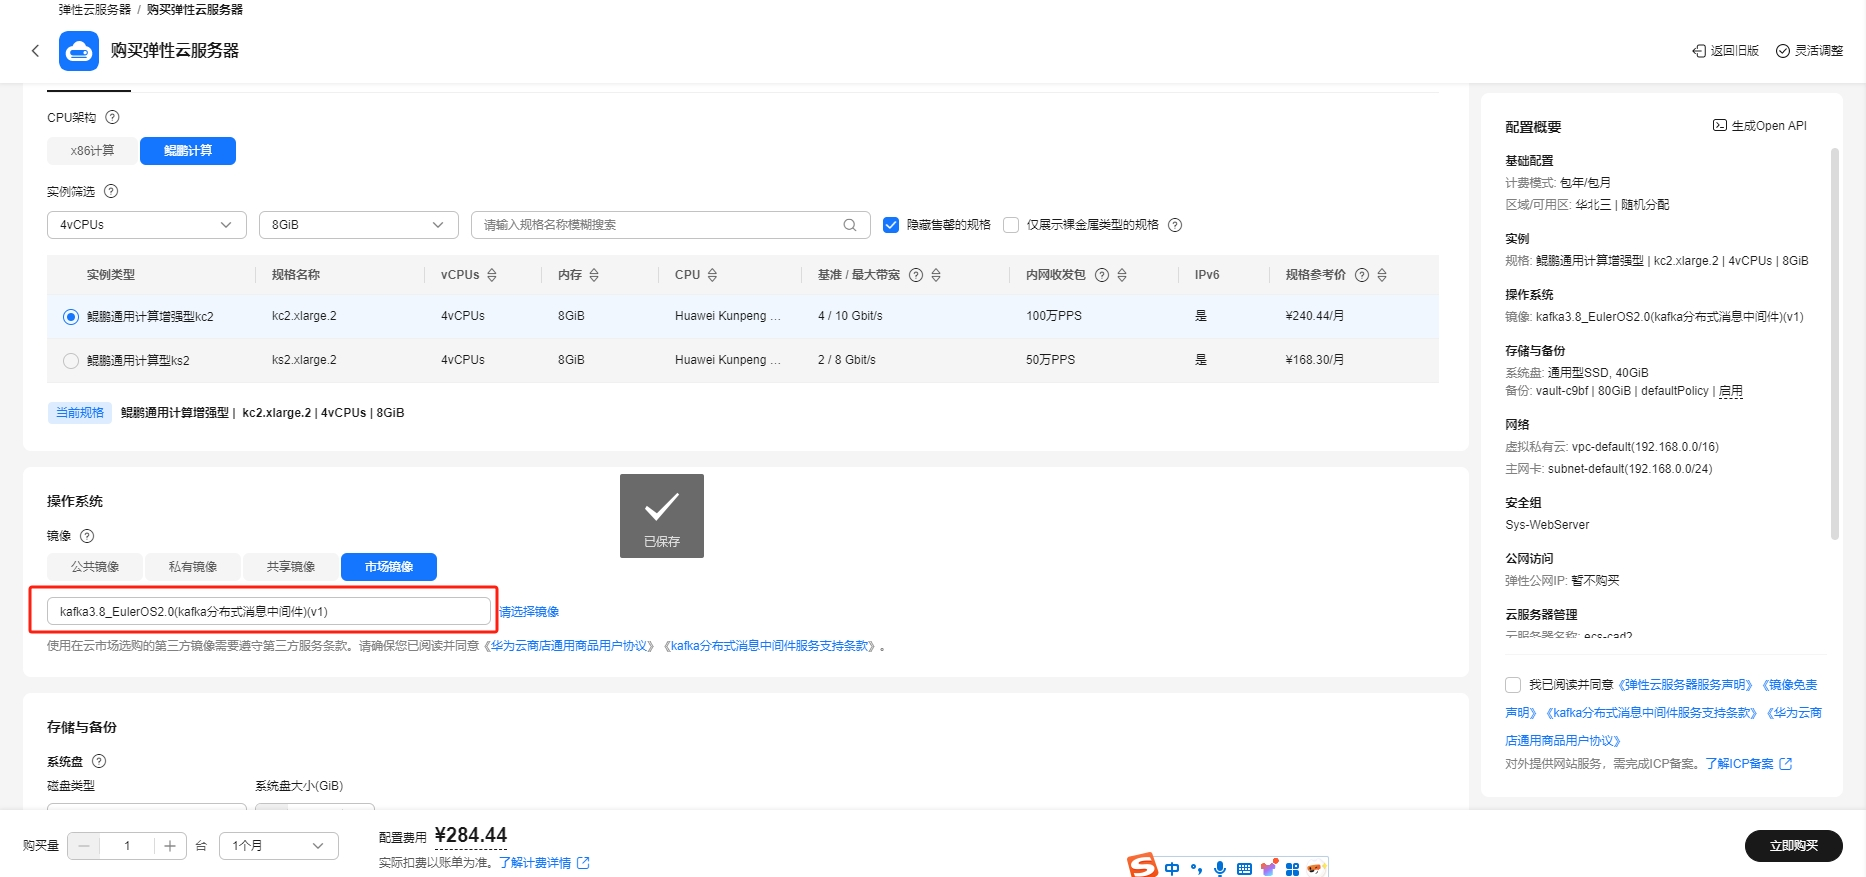
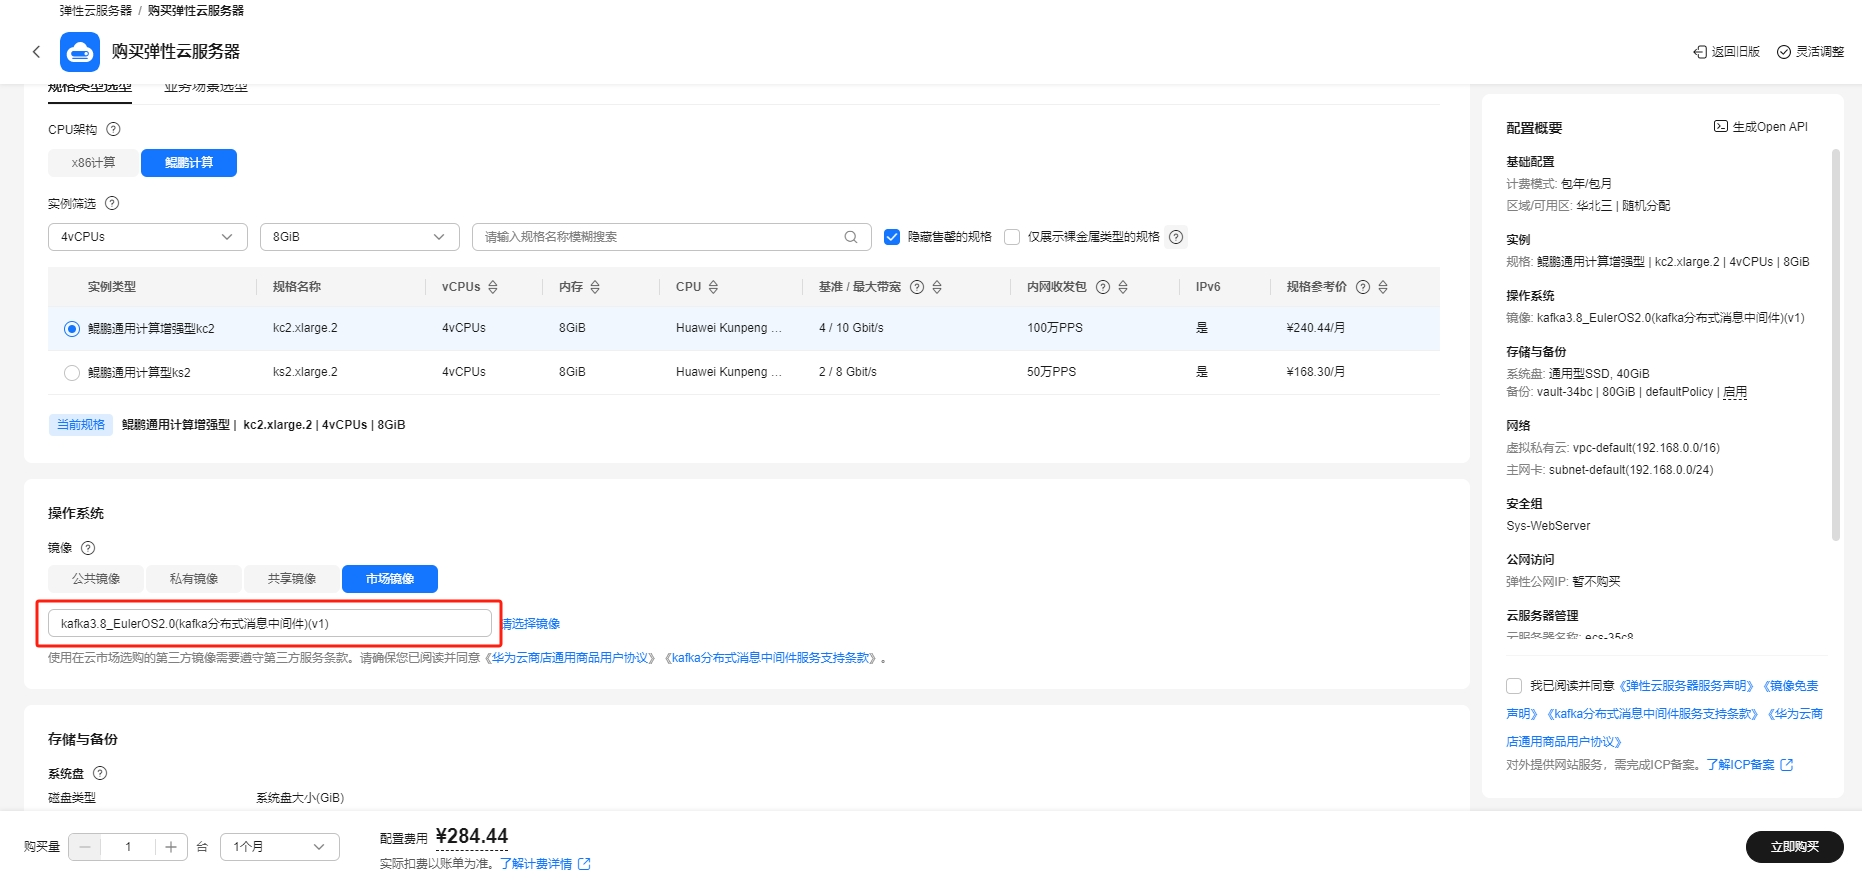
更新使用说明文档

diff --git a/docs/usage.md b/docs/usage.md
@@ -75,7 +75,7 @@
 ## jps查看服务是否启动成功
 执行 kafka.sh 的命令有可能启动不了 zookeeper 或 kafka 服务，可以二次启动 kafka.sh脚本
 
-## 手工启动 zookeepr 服务和 kafka 命令（如果服务没启动，根据以下命令手工启动）
+## 手工启动 zookeeper 服务和 kafka 命令（如果服务没启动，根据以下命令手工启动）
 zookeeper 服务停止和启动 (路径如有更改 换成本地实际使用路径)
 
 /opt/software/zookeeper-3.5.7/bin/zkServer.sh stop  
